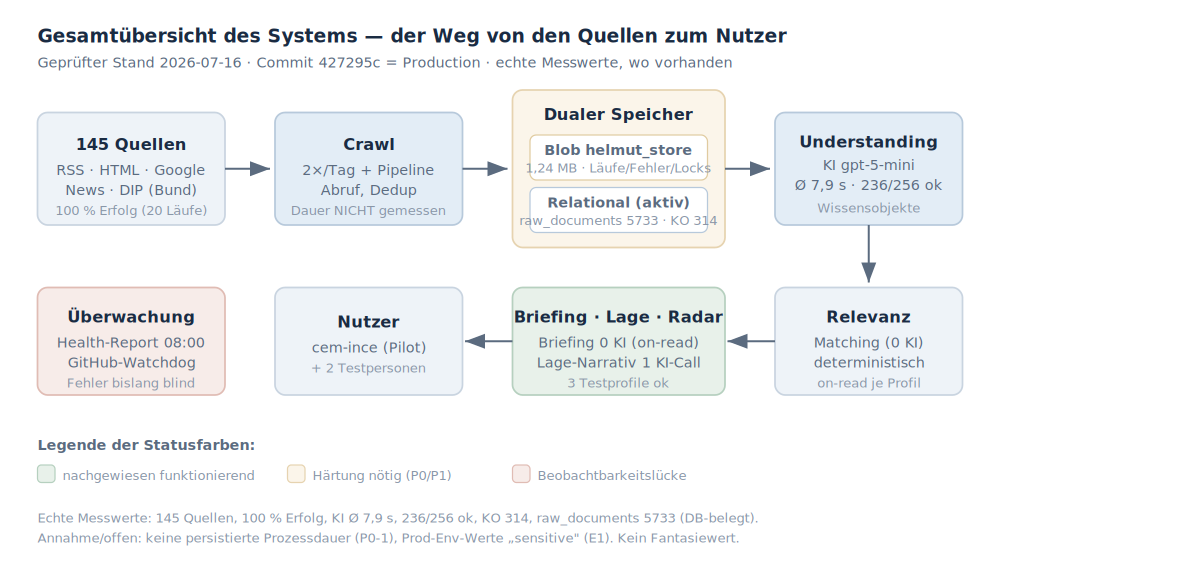
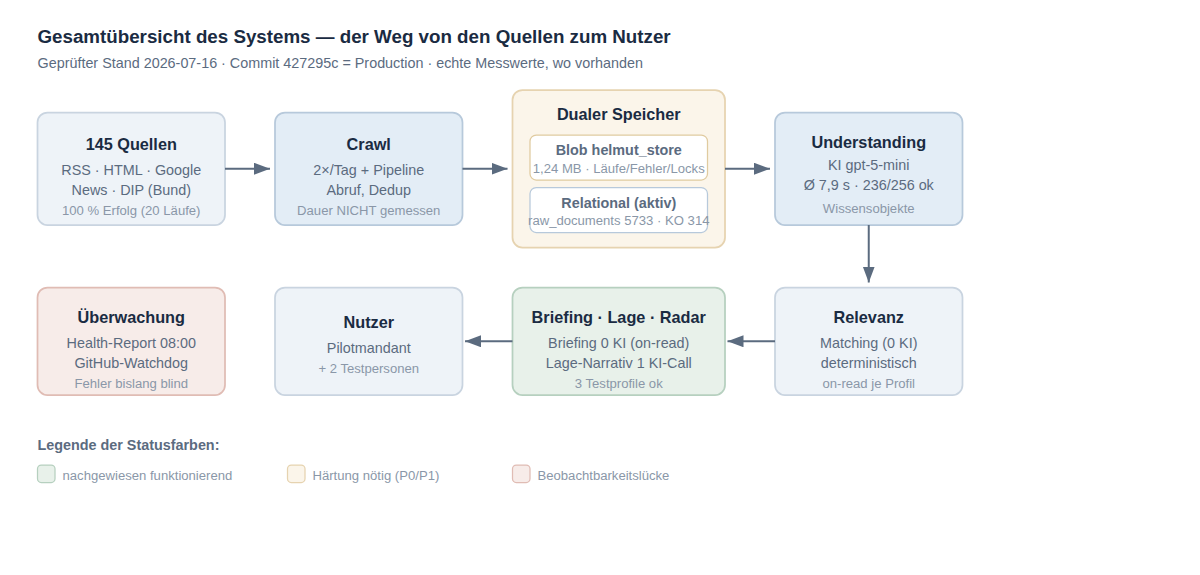
Doku/Assets: letzte Pilot-Bezuege entfernt, Dateien umbenannt, Diagramm neutral regeneriert
- Dateien ohne Pilotnamen: PILOT_UEBERGABE.md, pilot-mandant.md,
  multitenancy-pilot-cutover-plan.md, 12-sprint6-migration-shadow-pilot.md
- Systemuebersichts-SVGs (assets + sources): Mandatsknoten 'Pilotmandant'
  statt exakter Mandats-ID; PNG-Export aus dem SVG neu gerendert (1200x575)
- audit/saas-risk-matrix.md: Demo-Mandanten als Platzhalter statt Klarnamen

Claude-Session: https://claude.ai/code/session_01AJxZGMcGUjwM4wDb7bAvpF

diff --git a/audit/saas-risk-matrix.md b/audit/saas-risk-matrix.md
@@ -13,7 +13,7 @@ Legende Priorität: **P0** kritischer Sicherheits-/Datenisolationsfehler · **P1
 | 3 | Racige Blob-Locks + Last-Write-Wins → Lost Updates, Doppel-KI-Läufe | `store.pipelineLocks` im Blob (storage.js:522-538), `writeSupabaseStore` (187); `pipeline_locks=0` | Hoch (Serverless-Concurrency) | Mittel–Hoch (Datenverlust, KI-Doppelkosten) | Mittel | **Hoch** | **JA** (bei Skalierung) | Atomares DB-Lock (`pipeline_locks` via `INSERT … ON CONFLICT` / advisory lock) statt Blob; per-Mandat-Rows statt Monolith-Blob | **P1** |
 | 4 | Keine erzwungene per-Mandant-KI-Kostengrenze (Default `Infinity`, fail-open) | `canSpendLlm` (storage.js:431-514); `.env.example` | Hoch | Hoch (Kosten-DoS) | Mittel | **Hoch** | **JA** | `HELMUT_MAX_LLM_CALLS_PER_DAY` setzen + `HELMUT_LLM_BUDGET_FAIL_CLOSED=1`; globalen €-Cap + Alerting | **P1** |
 | 5 | Understanding-Lock Default AUS (No-op) → Doppel-Abrechnung bei überlappenden Läufen | `acquireGlobalUnderstandingLock` (storage.js:565-575) | Mittel | Mittel (KI-Doppelkosten) | Niedrig | Mittel | Nein | `HELMUT_UNDERSTANDING_LOCK=1` (Betreiber-ENV); langfristig atomar verdrahten | **P2** |
-| 6 | Demo-Profile (`angela-merkel`, `james-brown`) in Produktion | `helmut_store.main` / `profiles` (Live-Query) | Sicher (vorhanden) | Niedrig–Mittel (Verwechslung, Hygiene) | Niedrig | Mittel | Nein | Vor Vertrieb löschen; Prod von Testdaten trennen | **P2** |
+| 6 | Demo-Profile (`<demo-mandant-b>`, `<demo-mandant-c>`) in Produktion | `helmut_store.main` / `profiles` (Live-Query) | Sicher (vorhanden) | Niedrig–Mittel (Verwechslung, Hygiene) | Niedrig | Mittel | Nein | Vor Vertrieb löschen; Prod von Testdaten trennen | **P2** |
 | 7 | `helmut_ensure_profile` SECURITY DEFINER von anon/authenticated aufrufbar | Advisor 0028/0029; migration Z.41 | Niedrig (`NEW=null` → No-op) | Niedrig | Niedrig | Niedrig | Nein | `REVOKE EXECUTE FROM anon, authenticated` | **P2** |
 | 8 | 2 Funktionen mutable `search_path` + SECURITY DEFINER; `vector`-Ext in `public` | Advisor 0011/0014 | Niedrig | Mittel (Priv-Esc-Vektor) | Niedrig | Mittel | Nein | `SET search_path`; Extension in eigenes Schema | **P2** |
 | 9 | Legacy-Pilotmodus ohne `PILOT_SECRET` auf echtem Deploy offen | server.js:1218-1231 | Niedrig (Account-Modus go-forward) | Hoch (offener Zugang) | Niedrig | Mittel | Nein (wenn Account-Modus) | Prod hart auf `HELMUT_AUTH_MODE=accounts` + `PILOT_SECRET`-Pflicht | **P2** |
